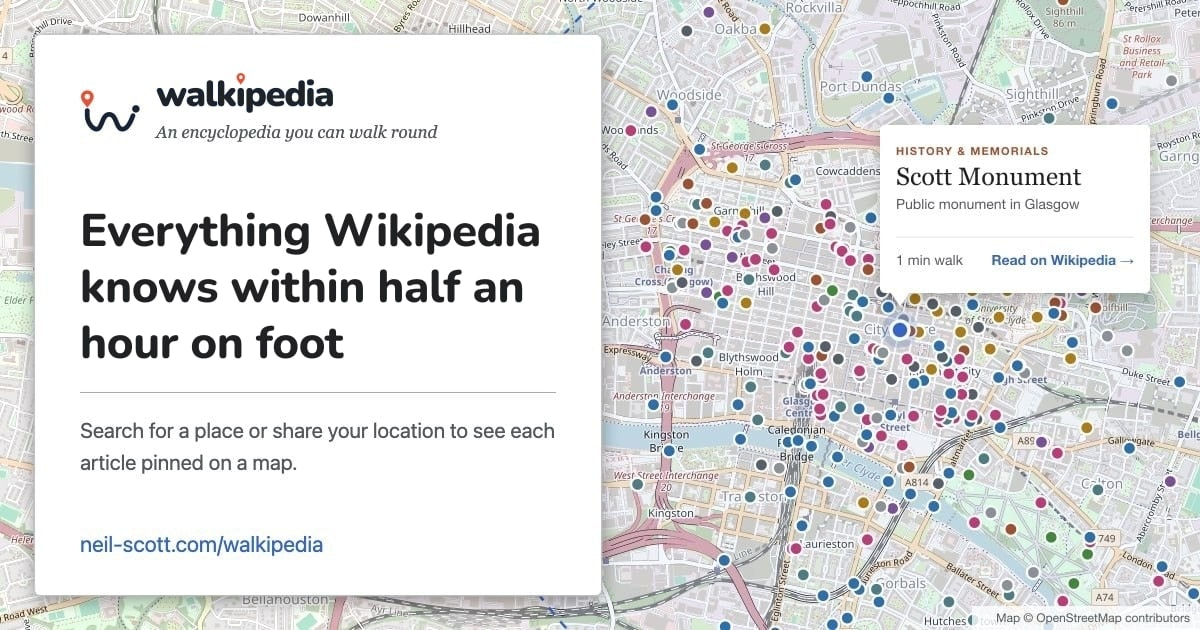
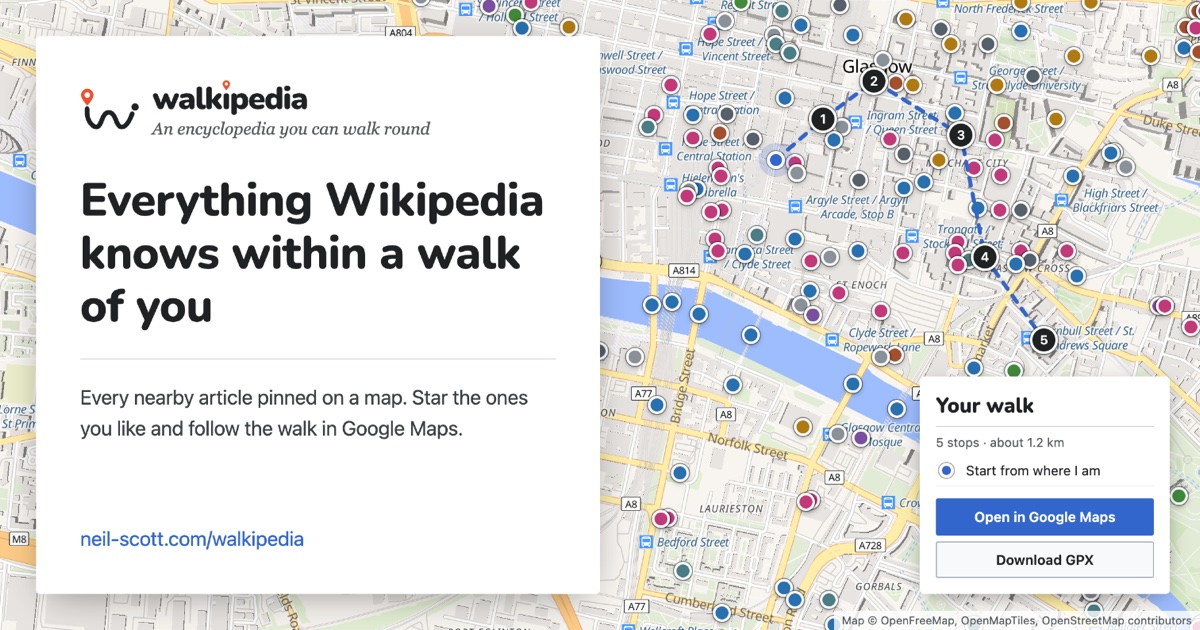
update the share image

diff --git a/index.html b/index.html
@@ -11,15 +11,15 @@
   <meta property="og:title" content="Walkipedia">
   <meta property="og:description" content="Every Wikipedia article within a short walk, pinned on a map.">
   <meta property="og:url" content="https://www.neil-scott.com/walkipedia/">
-  <meta property="og:image" content="https://www.neil-scott.com/walkipedia/og-image.jpg?v=5">
+  <meta property="og:image" content="https://www.neil-scott.com/walkipedia/og-image.jpg?v=6">
   <meta property="og:image:width" content="1200">
   <meta property="og:image:height" content="630">
-  <meta property="og:image:alt" content="‘Walkipedia: everything Wikipedia knows within half an hour on foot’ beside a map of central Glasgow covered in pins for nearby Wikipedia articles.">
+  <meta property="og:image:alt" content="‘Walkipedia: everything Wikipedia knows within a walk of you’ beside a map of central Glasgow covered in pins for nearby Wikipedia articles, with a five-stop walk drawn through them and buttons to open it in Google Maps or download a GPX file.">
   <meta name="twitter:card" content="summary_large_image">
   <meta name="twitter:title" content="Walkipedia">
   <meta name="twitter:description" content="Every Wikipedia article within a short walk, pinned on a map.">
-  <meta name="twitter:image" content="https://www.neil-scott.com/walkipedia/og-image.jpg?v=5">
-  <meta name="twitter:image:alt" content="‘Walkipedia: everything Wikipedia knows within half an hour on foot’ beside a map of central Glasgow covered in pins for nearby Wikipedia articles.">
+  <meta name="twitter:image" content="https://www.neil-scott.com/walkipedia/og-image.jpg?v=6">
+  <meta name="twitter:image:alt" content="‘Walkipedia: everything Wikipedia knows within a walk of you’ beside a map of central Glasgow covered in pins for nearby Wikipedia articles, with a five-stop walk drawn through them and buttons to open it in Google Maps or download a GPX file.">
 
   <link rel="stylesheet" href="vendor/map.css?v=530f528d">
   <link rel="preload" href="fonts/nunito-latin.woff2" as="font" type="font/woff2" crossorigin>
@@ -148,6 +148,6 @@
   <script src="vendor/leaflet-1.9.4.js"></script>
   <script src="vendor/leaflet.markercluster-1.5.3.js"></script>
   <script src="/js/newsletter.js" defer></script>
-  <script src="js/app.js?v=0190c7bf"></script>
+  <script src="js/app.js?v=12a5ed13"></script>
 </body>
 </html>

diff --git a/js/app.js b/js/app.js
@@ -951,7 +951,8 @@ ${stops.map(s => `    ${pt("rtept", s)}`).join("\n")}
         <p class="small">Google Maps takes up to ${STOPS_PER_LINK} stops per link (or 5 in a phone’s browser without the Google Maps app), so longer walks come in parts.
           The GPX file has the whole walk, for apps like Komoot, OsmAnd or Organic Maps.</p>`
       : `<p class="empty">Nothing in your walk yet. Tap the star on any article to add it.</p>`}
-      <p class="tour-foot"><button type="button" class="link-button" data-back>← Back</button></p>`;
+      <p class="tour-foot"><button type="button" class="link-button" data-back>← Back</button>${
+        order.length ? ` · <button type="button" class="link-button" data-clear>Clear the walk</button>` : ""}</p>`;
   }
 
   function openTour() {
@@ -1001,6 +1002,15 @@ ${stops.map(s => `    ${pt("rtept", s)}`).join("\n")}
     if (!btn) return;
     if ("back" in btn.dataset) closeTour();
     else if ("gpx" in btn.dataset) downloadGpx(tourStops);
+    else if ("clear" in btn.dataset) {
+      // asks for a second tap, so a stray one doesn't lose the walk
+      if (!btn.dataset.clear) { btn.dataset.clear = "sure"; btn.textContent = "Tap again to clear the walk"; return; }
+      saved = [];
+      try { localStorage.removeItem("walkipedia-saved"); } catch (_) {}
+      state.articles.forEach(a => markers.get(a.id)?.setIcon(markerIcon(a)));
+      refresh();
+      renderTour(false);
+    }
     else if ("first" in btn.dataset) {
       saved.forEach(s => delete s.first);
       tourStops[Number(btn.dataset.first)].first = true;
